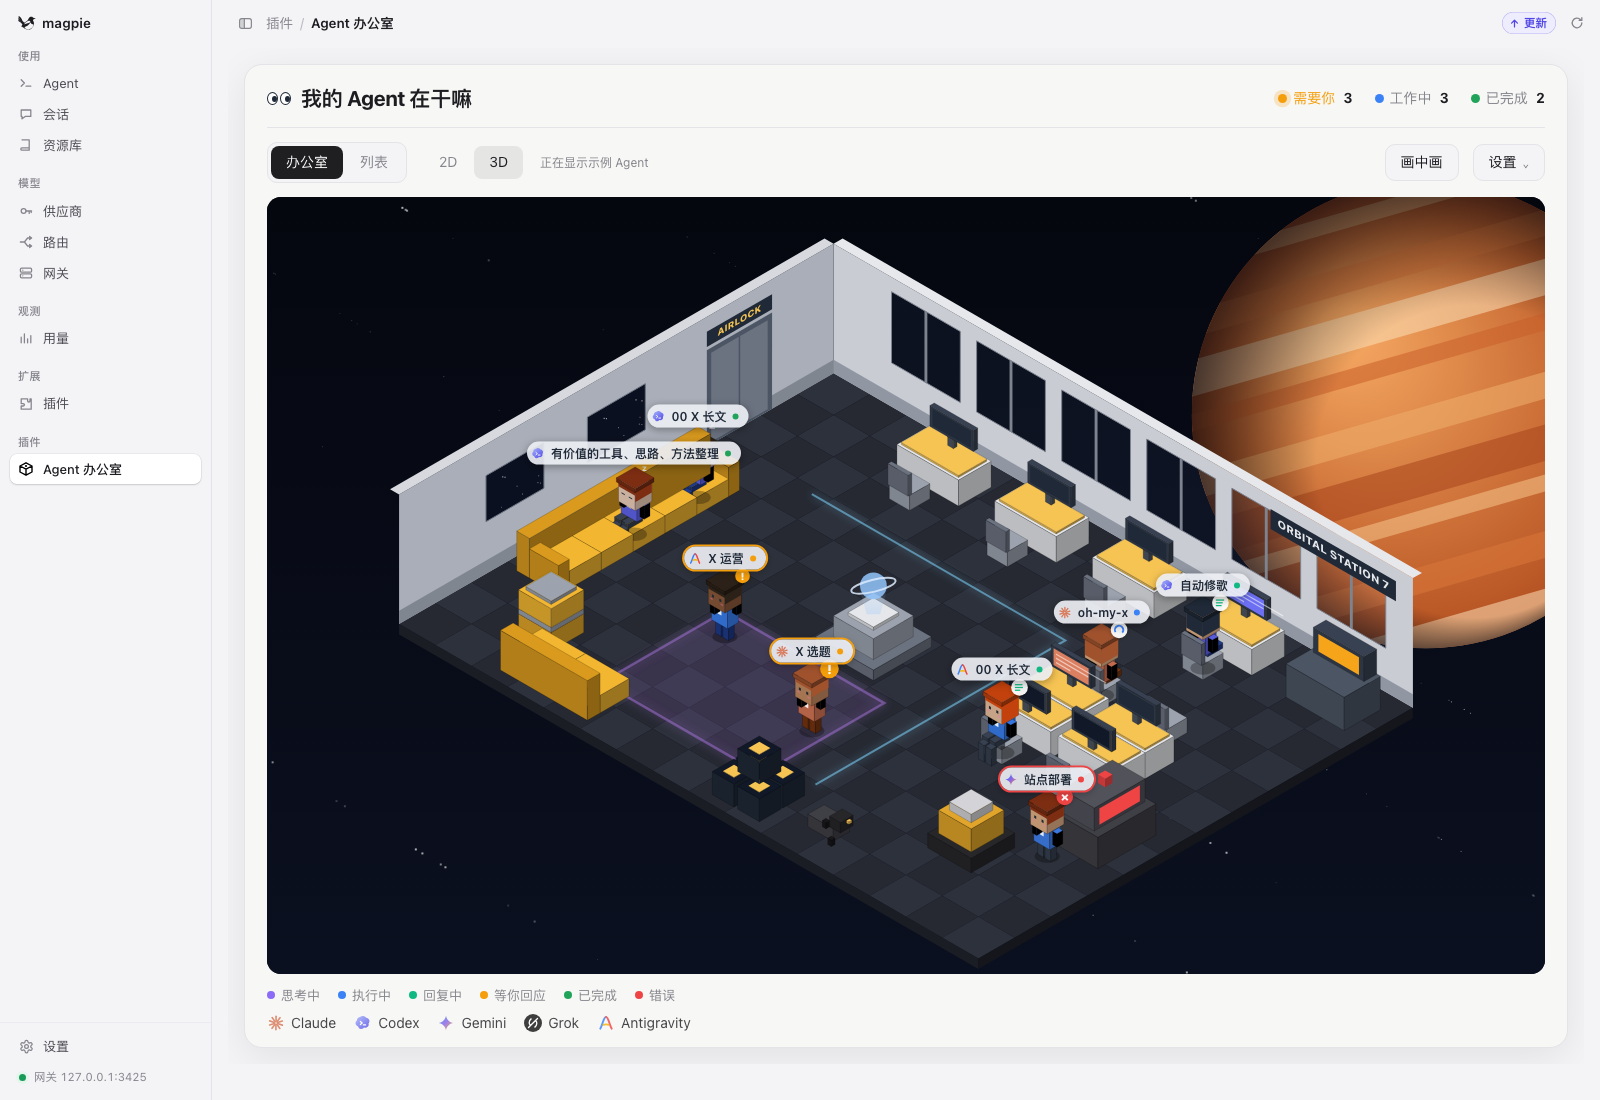
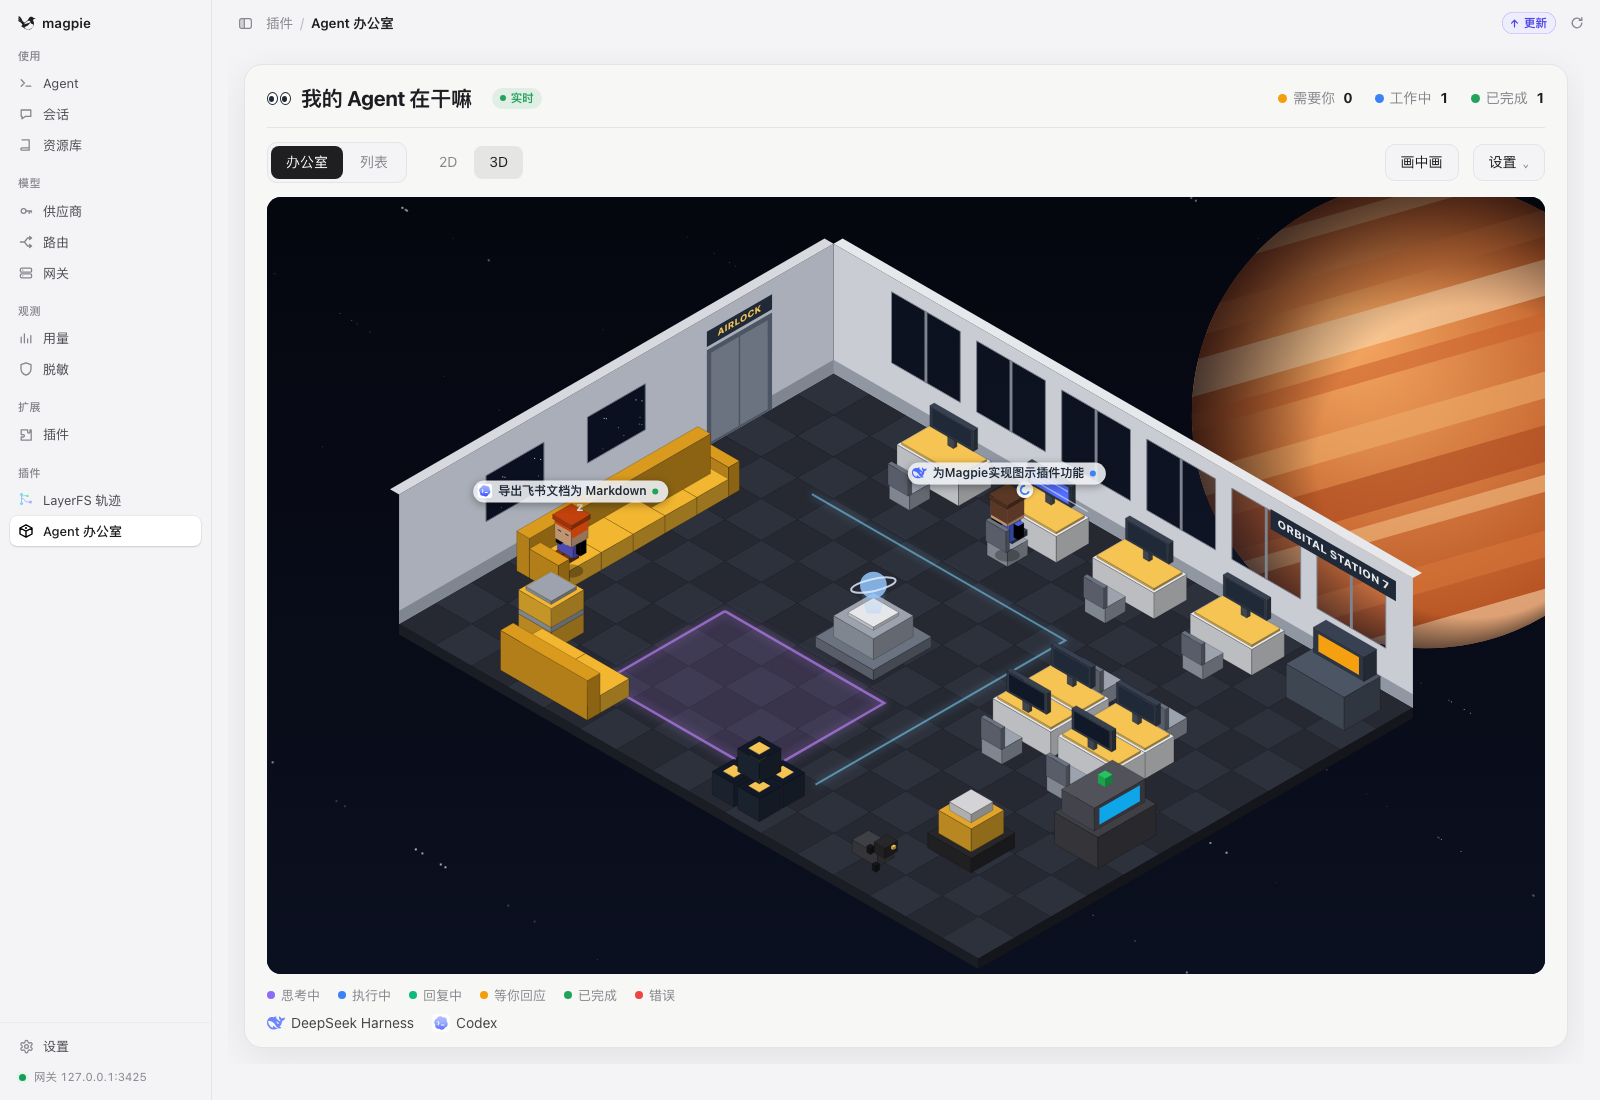
README for 0.2.0, real screenshots; list columns that don't wrap

diff --git a/page/style.css b/page/style.css
@@ -124,7 +124,8 @@ td.ag .mark { margin-right: 6px; }
 td.task { max-width: 420px; }
 .lt { font-weight: 600; }
 .ls { color: var(--muted); font-size: 12px; overflow: hidden; text-overflow: ellipsis; white-space: nowrap; max-width: 420px; }
-td.mono { font-family: var(--mono); font-size: 12px; color: var(--muted); }
+td.mono { font-family: var(--mono); font-size: 12px; color: var(--muted); max-width: 180px; overflow: hidden; text-overflow: ellipsis; white-space: nowrap; }
+th:last-child, td.muted { white-space: nowrap; }
 td.muted { color: var(--muted); white-space: nowrap; }
 .badge { display: inline-flex; align-items: center; gap: 6px; white-space: nowrap; font-size: 12px; font-weight: 600; color: var(--c); }
 .badge::before { content: ""; width: 8px; height: 8px; border-radius: 50%; background: var(--c); }

diff --git a/README.md b/README.md
@@ -1,6 +1,6 @@
 # Agent Office · 我的 Agent 在干嘛
 
-A page in [magpie](https://usemagpie.ai)'s window that shows every agent working through magpie as a little worker in a voxel space-station office — in isometric 3D or top-down 2D — or as a list.
+A page in [magpie](https://usemagpie.ai)'s window that shows, live, what each of your coding agents is doing — read from the agents' own session files — as a little worker in a voxel space-station office (isometric 3D or top-down 2D) or as a list.
 
 ![Agent Office in magpie's window](docs/in-magpie.png)
 
@@ -8,7 +8,7 @@ A page in [magpie](https://usemagpie.ai)'s window that shows every agent working
 magpie plugin add QingJ01/magpie-agent-office
 ```
 
-Then open **插件 › Agent 办公室** in the sidebar. Any agent whose model is a magpie model walks in on its next request: Claude Code, Codex, Gemini CLI, Grok, Antigravity, OpenCode, Pi, DeepSeek Harness and the rest.
+Then open **插件 › Agent 办公室** in the sidebar. Claude Code, Codex, DeepSeek Harness, Gemini CLI, Qwen Code, Pi, omp, Qoder, WorkBuddy and CodeBuddy show from their own session files, whatever model they use; any other agent shows while it works through magpie's models.
 
 The repository carries the `magpie-plugin` topic, so magpie also lists it under **插件 › 发现 › 非官方插件 · GitHub**.
 
@@ -23,24 +23,38 @@ The repository carries the `magpie-plugin` topic, so magpie also lists it under 
 | Done · 已完成 | on the sofa, asleep after 20 minutes | z |
 | Error · 错误 | at the broken console | × |
 
-The counts at the top are how many need you (waiting for an answer, or failed), how many are working and how many are done. One real session, seen through a sandboxed magpie with no models signed in, so the request failed:
+The counts at the top are how many need you (waiting for an approval or an answer, failed, or stuck), how many are working and how many are done. Below, real sessions: DeepSeek Harness running a tool, Codex done on the sofa, the panel of the first opened by a click:
 
-![One session that failed](docs/one-session.png)
-
-Hover a worker or click its name tag for a card with the agent, the task, the last thing asked, the last step it ran, how its answer begins, the model, and **Copy resume command** (`claude --resume …`, `codex resume …` and others).
+![A real session's panel](docs/panel.png)
 
 ## How it knows
 
-The repository is one plugin with two parts:
+From each agent's **own session file**, as the agent writes it — not a guess from traffic. The plugin's host part (it runs in magpie's plugin host while magpie is open) reads them every 1.5 seconds, only what changed:
 
-- **`office.hooks.mjs`** — an [asynchronous gateway hook](https://usemagpie.ai/docs/plugins#gateway-request). magpie calls `onRequest` before routing each agent request and `onResponse` once its reply is complete. The hook **changes nothing**: it returns no body, so every request goes on exactly as it came. It records which session is at work, whether a request answers the user or a tool's result, and how the reply ended (tool calls, a question, plain text, or an error), and writes that to `page/live.js` in its own folder, at most four times a second.
-- **`page/`** — the page. It runs in magpie's sandboxed frame with no network, and every few seconds loads `live.js` again (one of its own files). It works out each session's status against its own clock.
+| Agent | File it reads |
+|---|---|
+| Claude Code | `~/.claude/projects/*/*.jsonl` |
+| Codex | `~/.codex/sessions/YYYY/MM/DD/rollout-*.jsonl` (+ `session_index.jsonl` for titles) |
+| DeepSeek Harness | `~/.dsh/sessions/*/*/session.v4.jsonl.zstd` |
+| Gemini CLI · Qwen Code | `~/.gemini/tmp/*/chats/session-*`, `~/.qwen/tmp/*/chats/session-*` |
+| Pi · omp | `~/.pi/agent/sessions/*/*.jsonl`, `~/.omp/agent/sessions/*/*.jsonl` |
+| Qoder · WorkBuddy · CodeBuddy | their `projects/*/*.jsonl` (Claude Code's format) |
 
-Sessions are told apart by the session id the agent sends (`X-Magpie-Session`, Claude Code's and Codex's own headers, and others). A request from an agent that sends none is grouped by its folder. A request without tools from a session that uses tools (a title or a summary) is a side request, so it doesn't count as the session's work.
+The `*_HOME` / `*_CONFIG_DIR` variables those agents honour are honoured here too. What each file says decides the status outright: a tool call with no result yet is **running**, an approval asked (Codex's `exec_approval_request`, DeepSeek Harness's `approval/asked`, Gemini's `awaiting_approval`) is **waiting for you**, a question tool is **asked you something**, the turn's end is **done**, an interruption is **stopped**, an error turn is **error**. A turn whose file hasn't moved for ten minutes is shown as stuck.
+
+Every other agent (Cursor, OpenCode, Copilot, Kimi…) shows while it works through magpie: the module is also an [asynchronous gateway hook](https://usemagpie.ai/docs/plugins#gateway-request) that sees its requests. The hook returns no body, so no request changes.
+
+Both write `page/live.js` beside the page, which the page loads every second (a plugin page has no network; its own files it may load). The green **live** dot by the title turns grey if the host stops writing.
+
+All 60 agents magpie knows are named with their own icons, the files magpie itself shows (`page/icons`, from magpie's assets, MIT).
+
+## Using it
+
+Hovering only highlights a worker. **Click** a worker, its name tag or a row in the list to open its panel — the task, the last thing you asked, the step it's on, how its answer begins, its model and folder, **Copy resume command** — which stays at the side until you close it (✕ or Esc) or click another agent.
 
 ## Privacy
 
-- It only records requests made on this computer: magpie's `origin: local`. Requests through a gateway key or from other computers are left out unless you set `"remote": true`.
+- It reads the agents' session files on this computer, only reads them, and only the last two days'. Through the gateway it records only requests made on this computer (magpie's `origin: local`) unless you set `"remote": true`.
 - `live.js` holds the agent, the session id, the folder name and path, the model, the last prompt (200 characters), the first 280 characters of the last answer, and the names and targets of the last tool calls. It never holds a key, a header or a whole conversation. With `"text": false` (Settings › Show prompts and replies, off) it keeps statuses and tool names only.
 - `live.js` stays in the plugin's folder and is never sent anywhere. The page asks magpie for no data at all: its `permissions` list is empty.
 
@@ -58,7 +72,7 @@ magpie frames a plugin's page with `allow=""` and `sandbox="allow-scripts"`, so 
 ## Options
 
 ```json
-{ "mode": "office", "dim": "3d", "demo": false, "showDone": true, "hideAfter": "6h", "text": true, "remote": false, "approvalAfterSec": 90 }
+{ "mode": "office", "dim": "3d", "demo": false, "showDone": true, "hideAfter": "6h", "text": true, "remote": false }
 ```
 
 | Key | |
@@ -68,22 +82,25 @@ magpie frames a plugin's page with `allow=""` and `sandbox="allow-scripts"`, so 
 | `demo` | show sample agents (Settings › Sample agents) |
 | `showDone` | keep finished agents on the sofa |
 | `hideAfter` | when a finished or failed agent leaves: `1h`, `6h`, `24h`, `never` |
-| `text` | the hook keeps prompts and replies (`false`: statuses only) |
-| `remote` | the hook also records requests from other computers and gateway keys |
-| `approvalAfterSec` | how long tools run before the agent counts as waiting for you (90) |
+| `text` | keep prompts and replies (`false`: statuses and tool names only) |
+| `remote` | the gateway part also records requests from other computers and gateway keys |
+| `approvalAfterSec` | for an agent seen only through the gateway: how long its tools run before it counts as waiting for you (90) |
 
 The page saves the first five as you change them; a change restarts the plugin's host (magpie's options do), so it waits until it has been left alone a moment.
 
 ## What it cannot know
 
-- **Only agents whose models are magpie's.** An agent that talks to its vendor directly never passes the gateway, so it has no session here. A plugin page may read only `usage:summary` and `providers:list`, and neither says what a session is doing.
-- **A status is worked out, not reported.** The page infers it from what the gateway saw: a request out is thinking (replying once it has run more than 8 seconds), tool calls that have not come back are executing, and one that has sat 90 seconds is taken as waiting for an approval. `approvalAfterSec` moves that line; a step that genuinely runs long (a build, a test suite) reads as waiting until its result arrives, and its card says how long it has run.
-- **The request is the boundary.** A tool the client runs itself is invisible: magpie sees the call, then nothing until the agent asks again.
+- **An agent whose files it doesn't read and that doesn't use magpie's models.** It has no record here at all.
+- **The model's word-by-word progress.** A file is written per message, so "replying" means the session's file is moving and the model has begun its answer.
+- **Sessions older than two days**, or more than the latest 40: they are left out to keep each read cheap.
 
 ## Files
 
-- `lib/track.mjs` — what the hook keeps, from requests and replies in each API (Anthropic Messages, Chat Completions, Responses, Gemini). No I/O, so the tests drive it directly.
-- `office.hooks.mjs` — the hook: calls the tracker, writes `page/live.js`.
+- `lib/readers.mjs` — each agent's session format turned into its phase, step, prompt and answer. No I/O.
+- `lib/scan.mjs` — finds the files in each agent's folder and rereads only the ones that changed.
+- `lib/track.mjs` — what the gateway hook keeps, from requests and replies in each API (Anthropic Messages, Chat Completions, Responses, Gemini). No I/O, so the tests drive it directly.
+- `office.hooks.mjs` — the host part: scans every 1.5 s, sees the gateway's requests, writes `page/live.js`.
+- `page/agents.js`, `page/icons/` — every agent magpie knows, with its own icon.
 - `page/model.js` — statuses, counts, words (English and Chinese), agent marks, resume commands and sample agents, with no DOM.
 - `page/scene.js` — the office, drawn on a canvas in isometric 3D or top-down 2D.
 - `page/icons.js`, `page/app.js`, `page/index.html`, `page/style.css` — the page.
